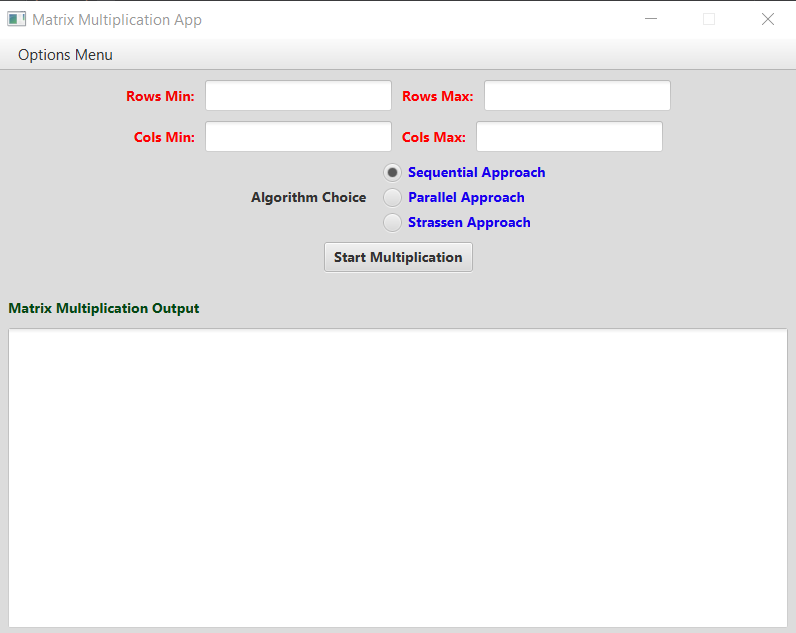
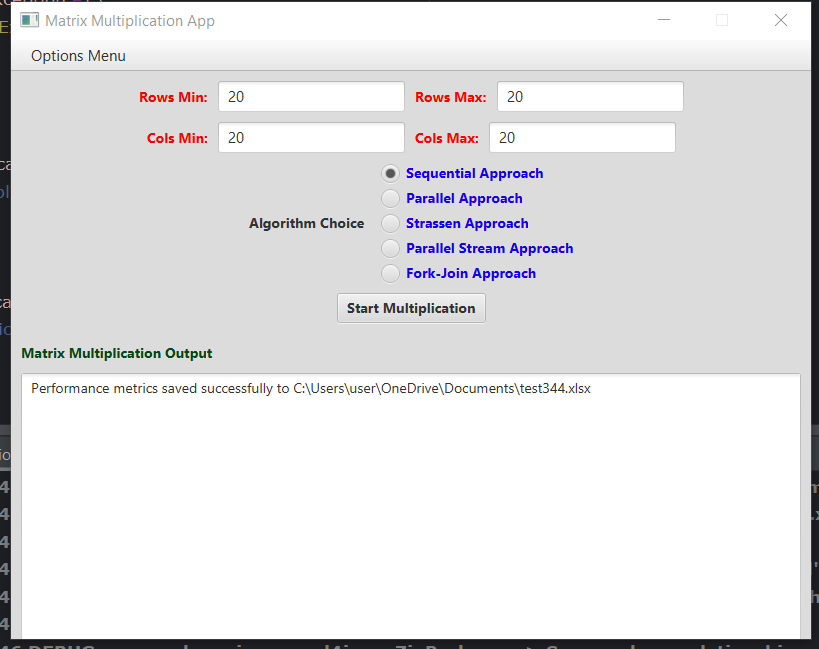
updated doc

Changed region(s): [[0.0, 0.0, 1.0, 1.0]]

diff --git a/README.md b/README.md
@@ -1,40 +1,64 @@
 # **Matrix Multiplication App User Manual**
 
 ## **Overview**
-The Matrix Multiplication App is a JavaFX-based application designed to perform matrix multiplication using various algorithms. It supports three different approaches: Sequential, Parallel, and Strassen. Users can define matrix dimensions, select the desired algorithm, and view the results dynamically.
+
+The Matrix Multiplication App is a JavaFX-based application that performs matrix multiplication using various
+approaches. It supports Sequential, Parallel, Strassen, and advanced parallelization options (Executor Service, Parallel
+Stream, Fork-Join Framework). This user-friendly application is designed for both educational and practical purposes.
 
 ---
 
 ## **Features**
-1. **Matrix Multiplication**: Multiply two matrices using Sequential, Parallel, or Strassen approaches.
-2. **Dynamic Resizing**: The application adjusts its layout automatically when resized.
+
+1. **Matrix Multiplication**: Multiply two matrices using Sequential, Parallel, Strassen, and other parallelization
+   options.
+2. **Dynamic Resizing**: The application layout adjusts automatically when resized.
 3. **Save Options**:
     - Save the output to a `.txt` file.
     - Export performance metrics to an Excel file.
-4. **Execution Time**: Displays the time taken for the multiplication in the output.
+4. **Execution Time**: View the time taken for each multiplication approach.
+5. **Parallelization Options**:
+    - **Executor Service**: Utilizes a thread pool for parallel computation.
+    - **Parallel Stream**: Uses Java 8's parallel stream for parallelization.
+    - **Fork-Join Framework**: Implements the Fork-Join framework for parallel processing.
 
 ---
 
 ## **Getting Started**
 
+### **Prerequisites**
+
+1. **Java Development Kit (JDK)**: Ensure JDK 8 or a later version is installed on your system.
+2. **JavaFX Setup**: JavaFX should be properly configured in your development environment (e.g., IntelliJ IDEA or
+   Eclipse).
+3. **Gradle Build Tool**: The project uses Gradle for building and dependency management.
+4. **Git**: To clone the repository, you need Git installed on your system.
+5. **IDE**: Use an IDE like IntelliJ IDEA or Eclipse for a seamless development experience.
+6. **Excel Software**: To view the performance metrics, you need software like Microsoft Excel or LibreOffice Calc.
+
 ## **Introduction**
 
-The **Matrix Multiplication App** is a robust application designed for educational and practical purposes to perform matrix multiplication using three distinct methods:
+The **Matrix Multiplication App** is a robust application designed for educational and practical purposes to perform
+matrix multiplication using three distinct methods:
+
 1. **Sequential Approach**: Standard matrix multiplication.
 2. **Parallel Approach**: Uses multiple threads to improve computation time.
 3. **Strassen Approach**: An optimized algorithm based on divide-and-conquer.
+4. **Parallel Stream**: Utilizes Java 8's parallel stream for parallelization.
+5. **Fork-Join Framework**: Implements the Fork-Join framework for parallel processing.
 
-This app is equipped with a user-friendly interface, dynamic resizing, and options to save the results and performance metrics for further analysis. Whether you're a student, researcher, or developer, this app provides an intuitive way to understand and utilize matrix multiplication techniques.
+This app is equipped with a user-friendly interface, dynamic resizing, and options to save the results and performance
+metrics for further analysis. Whether you're a student, researcher, or developer, this app provides an intuitive way to
+understand and utilize matrix multiplication techniques.
+
+
 
 ---
 
 ## **How to Run the Application**
 
-### **Prerequisites**
-1. **Java Development Kit (JDK)**: Ensure JDK 8 or a later version is installed on your system.
-2. **JavaFX Setup**: JavaFX should be properly configured in your development environment (e.g., IntelliJ IDEA or Eclipse).
-
 ### **Steps to Run**
+
 1. Clone or download the project from the repository.
 2. Navigate to the project directory and ensure all dependencies are correctly set up.
 3. Compile the application:
@@ -53,6 +77,7 @@ Or use the terminal:
 ## **User Interface**
 
 ### **Main Sections**
+
 1. **Menu Bar**:
     - **Options Menu**:
         - `Exit`: Closes the application.
@@ -63,32 +88,44 @@ Or use the terminal:
     - `Sequential Approach`: Basic single-threaded multiplication.
     - `Parallel Approach`: Utilizes multiple threads for faster computation.
     - `Strassen Approach`: A divide-and-conquer-based optimized algorithm.
+    - `Parallel Stream`: Uses Java 8's parallel stream for parallelization.
+    - `Fork-Join Framework`: Implements the Fork-Join framework for parallel processing.
 4. **Output Section**:
     - Displays the results of matrix multiplication.
     - Shows execution time.
-   
+    - Allows for saving the output and performance metrics.
+    -
+
 ![img.png](img.png)
+
+![img_menu.png](img_menu.png)
 
 ---
 
 ## **Step-by-Step Guide**
 
 ### **1. Input Matrix Dimensions**
+
 - Enter the minimum and maximum number of rows and columns for the matrices:
     - **Rows Min & Rows Max**: The number of rows in the first matrix.
     - **Cols Min & Cols Max**: The number of columns in the first matrix and rows in the second matrix.
 
 ### **2. Choose an Algorithm**
+
 - Select one of the three radio buttons:
     - **Sequential Approach**: For basic single-threaded multiplication.
     - **Parallel Approach**: For multithreaded computation.
     - **Strassen Approach**: For advanced divide-and-conquer multiplication.
+    - **Parallel Stream**: For parallelization using Java 8's parallel stream.
+    - **Fork-Join Framework**: For parallel processing using the Fork-Join framework.
 
 ### **3. Start Multiplication**
+
 - Click the **Start Multiplication** button to initiate the computation.
 - The output, including the matrices and the result, will be displayed in the **Output Section**.
 
 ### **4. Save Results**
+
 - Navigate to the **Save Tab** for the following options:
     - **Save Output to Text File**:
         - Saves the matrix multiplication results to a `.txt` file.
@@ -96,6 +133,7 @@ Or use the terminal:
         - Saves the execution times and other metrics to an Excel file.
 
 ### **5. Exit the Application**
+
 - Use the **Options Menu** > `Exit` to close the application.
 
 ---
@@ -131,7 +169,18 @@ Or use the terminal:
 
 3. **File Save Errors**:
     - Ensure you have write permissions to the chosen directory.
+4. **Performance Metrics Not Saved**:
+    - Check if you have Excel software installed on your system.
 
 ---
 
----
+## **Hardware**
+
+- Windows 10 Pro
+- 16 GB RAM
+- Intel(R) Core(TM) i7-10870H CPU @ 2.20GHz
+- 1 TB SSD
+- NVIDIA GeForce RTX 2060
+- 16 processors
+- 8 cores per processor
+
